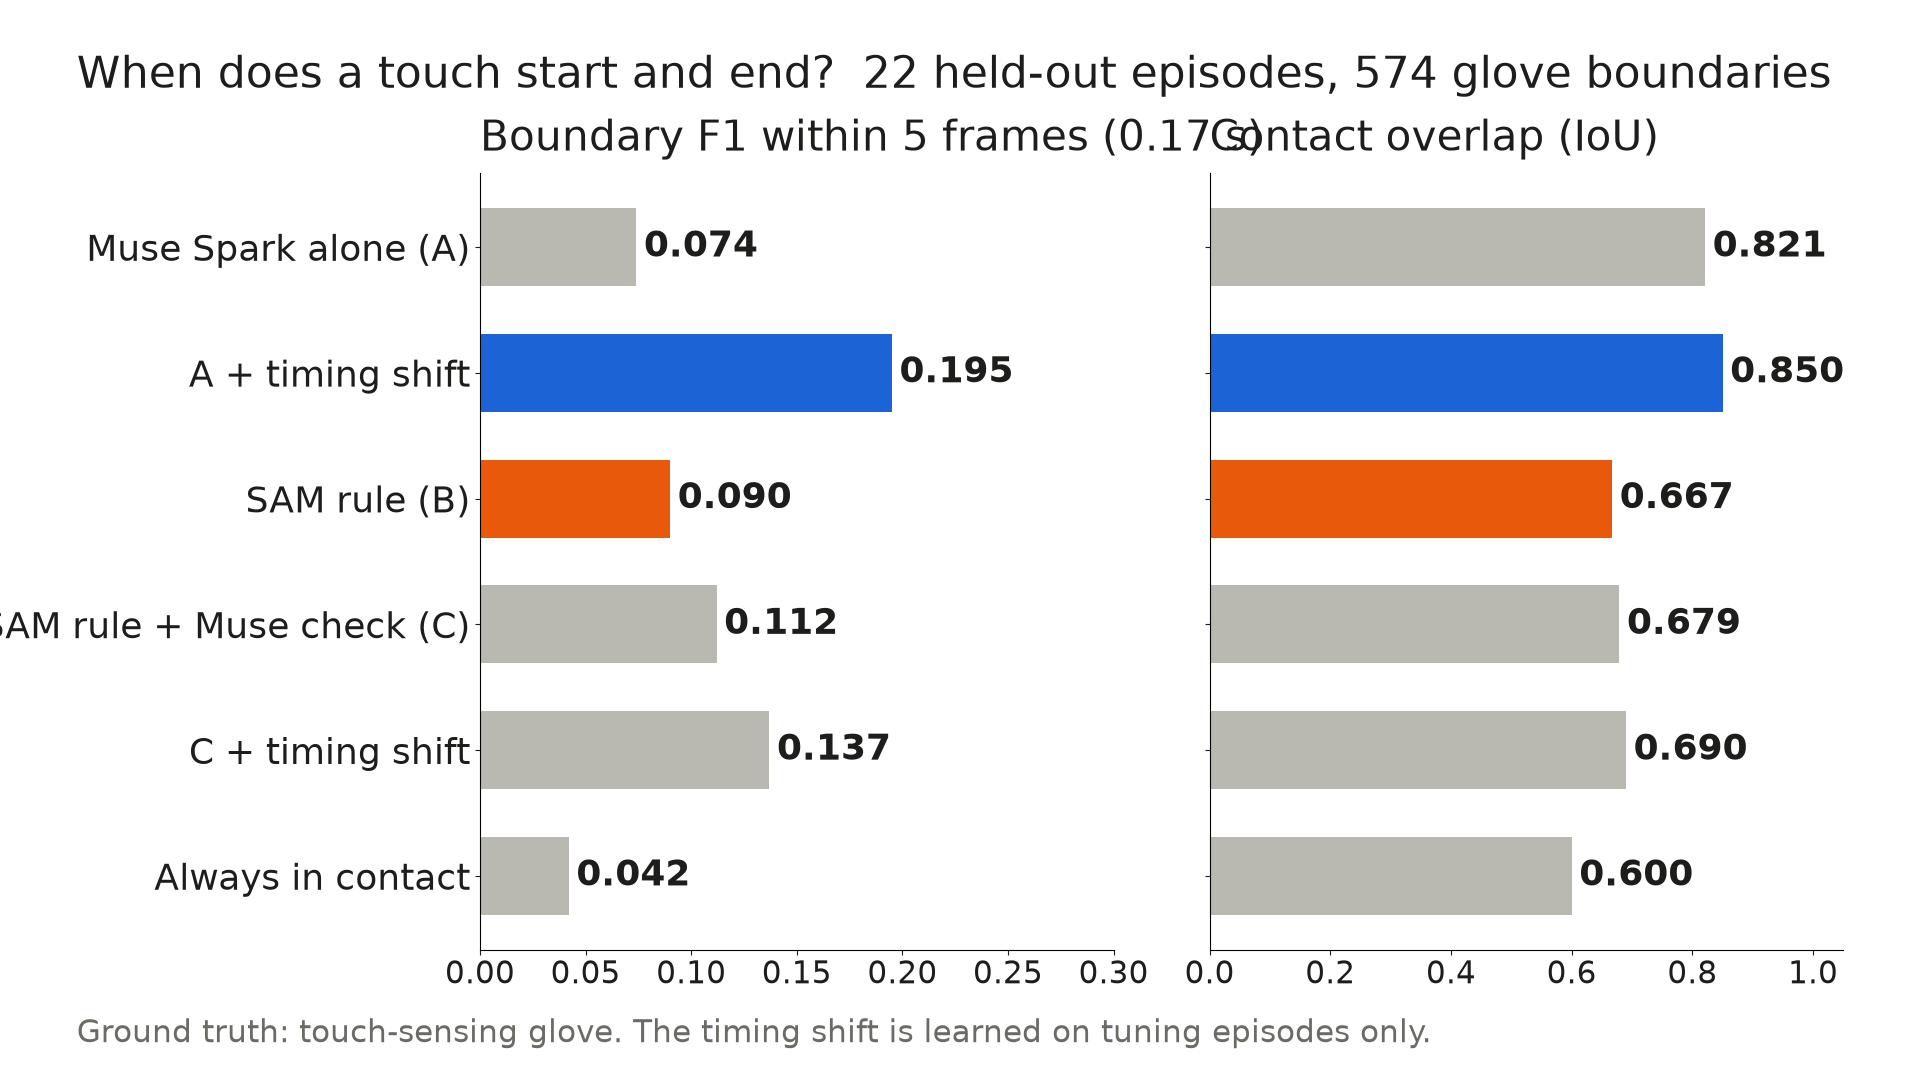
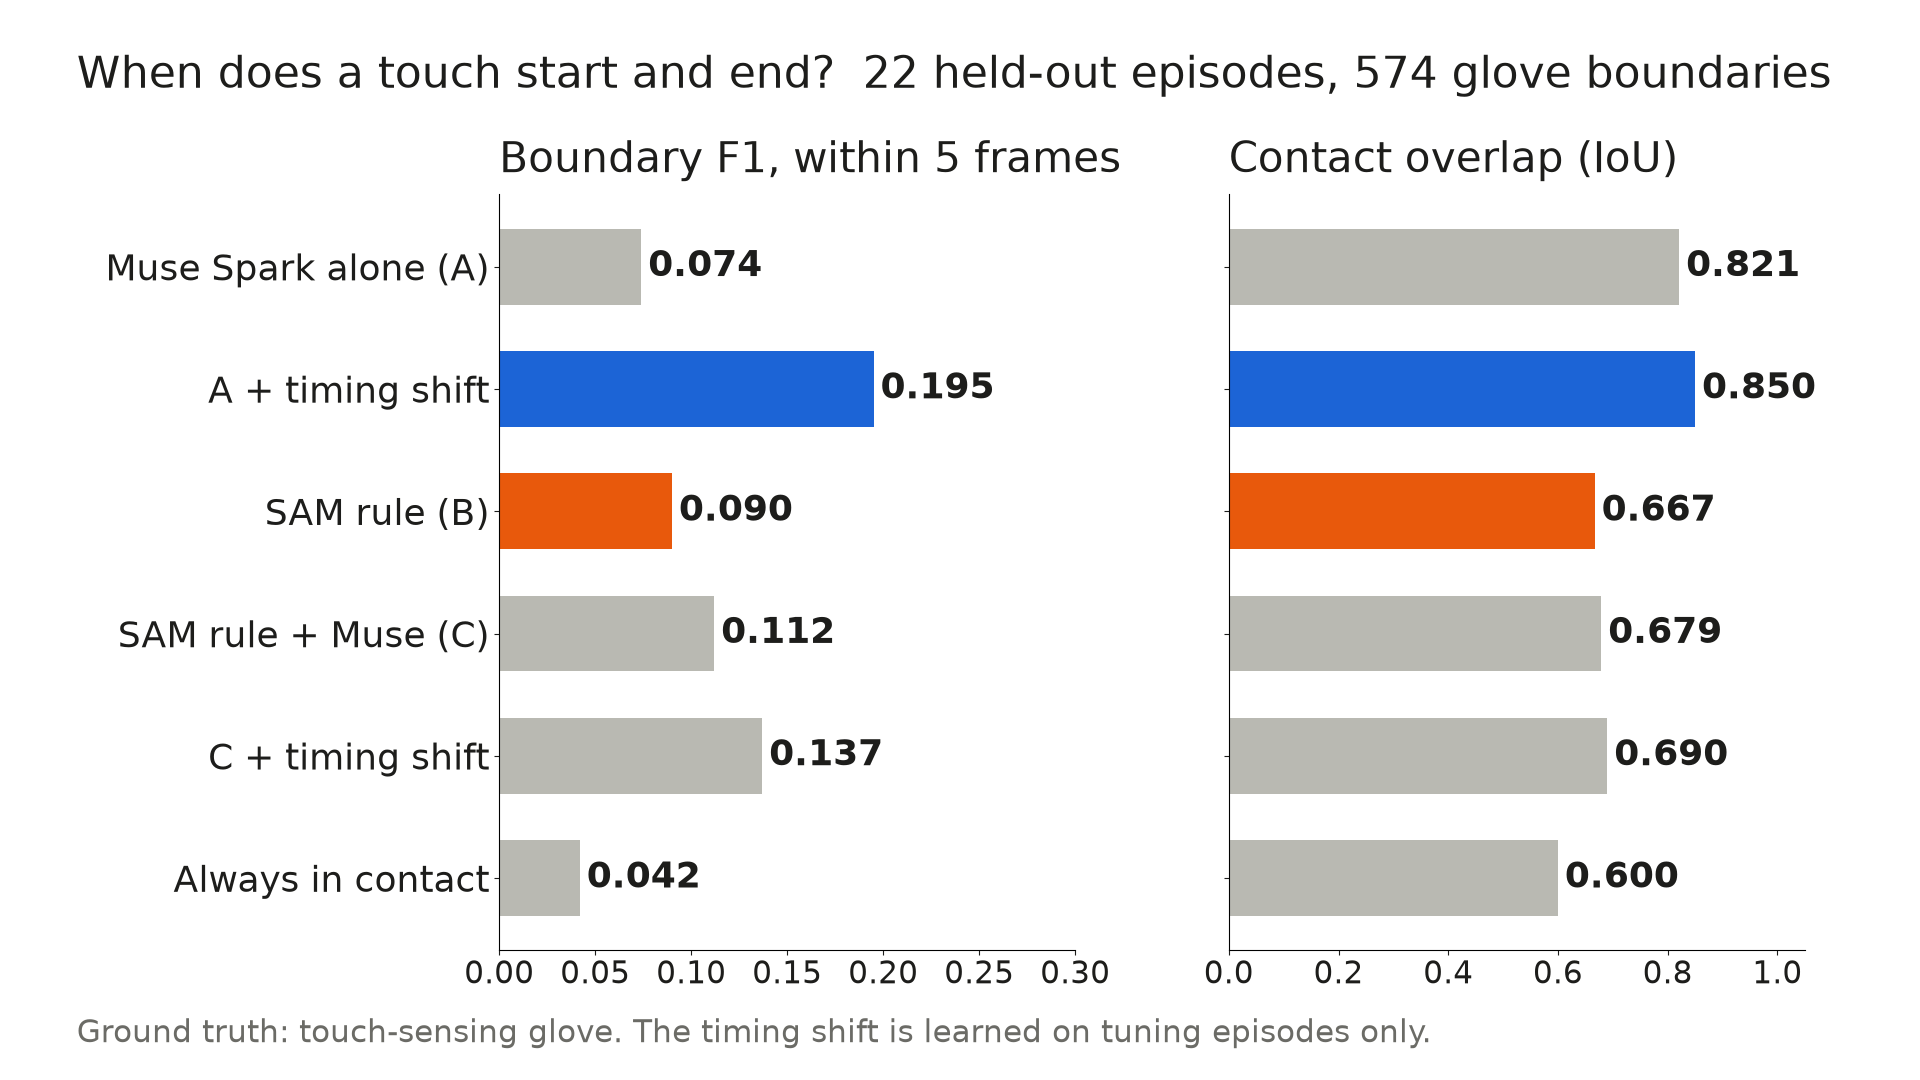
Redraw the demo video figures

diff --git a/scripts/demo_figures.py b/scripts/demo_figures.py
@@ -65,16 +65,16 @@ def hbars(ax, labels, values, colors, ci=None, fmt="{:.3f}", xmax=1.0):
 def number1():
     rows = load("out/number1/final/number1_final_report.json")["pooled"]["tactile_clean"]
     order = [("arm_A", "Muse Spark alone (A)"), ("arm_A_shift", "A + timing shift"),
-             ("arm_B", "SAM rule (B)"), ("arm_C", "SAM rule + Muse check (C)"),
+             ("arm_B", "SAM rule (B)"), ("arm_C", "SAM rule + Muse (C)"),
              ("arm_C_shift", "C + timing shift"), ("always_in_contact", "Always in contact")]
     colors = [HI if k == "arm_A_shift" else HI2 if k == "arm_B" else BASE for k, _ in order]
     fig = canvas()
     fig.suptitle("When does a touch start and end?  22 held-out episodes, 574 glove boundaries",
                  fontsize=32, x=0.04, ha="left", y=0.95)
-    ax1 = fig.add_axes([0.25, 0.12, 0.33, 0.72])
+    ax1 = fig.add_axes([0.26, 0.12, 0.30, 0.70])
     hbars(ax1, [l for _, l in order], [rows[k]["boundary_f1_5"] for k, _ in order], colors, xmax=0.3)
-    ax1.set_title("Boundary F1 within 5 frames (0.17 s)", loc="left", pad=16)
-    ax2 = fig.add_axes([0.63, 0.12, 0.33, 0.72])
+    ax1.set_title("Boundary F1, within 5 frames", loc="left", pad=16)
+    ax2 = fig.add_axes([0.64, 0.12, 0.30, 0.70])
     hbars(ax2, [""] * len(order), [rows[k]["contact_iou"] for k, _ in order], colors, xmax=1.05)
     ax2.set_title("Contact overlap (IoU)", loc="left", pad=16)
     fig.text(0.04, 0.035, "Ground truth: touch-sensing glove. The timing shift is learned on tuning episodes only.",
@@ -92,12 +92,12 @@ def number2():
         fig = canvas()
         fig.suptitle("Can a robot hand copy this grasp?  1,426 held-out clips from 3 people",
                      fontsize=32, x=0.04, ha="left", y=0.95)
-        ax = fig.add_axes([0.30, 0.14, 0.62, 0.70])
+        ax = fig.add_axes([0.36, 0.14, 0.58, 0.70])
         hbars(ax, [r[0] for r in rows], [r[1]["auc"] for r in rows],
               [hi.get(i, BASE) for i in range(len(rows))],
               ci=[tuple(r[1]["ci95_by_sequence"]) for r in rows], xmax=1.0)
         ax.axvline(0.5, color=MUTED, lw=2, ls="--")
-        ax.text(0.5, -0.75, "chance", color=MUTED, ha="center", fontsize=22)
+        ax.text(0.505, len(rows) - 0.45, "chance", color=MUTED, fontsize=22)
         ax.set_xlim(0.3, 0.9)
         ax.set_xlabel("AUC against the robot copy label (bars: 95% interval over sequences)", labelpad=14)
         save(fig, name)
@@ -113,11 +113,12 @@ def soft():
              ("Rigid objects held back\n(%s HOT3D clips)" % f"{held['clips']:,}", held["all"], 0.10, "at most 10%",
               held["all"] <= 0.10)]
     for i, (label, value, line, rule, ok) in enumerate(items):
-        ax = fig.add_axes([0.06 + 0.48 * i, 0.16, 0.40, 0.62])
+        ax = fig.add_axes([0.07 + 0.48 * i, 0.12, 0.40, 0.58])
         ax.bar([0], [value], width=0.5, color="#2b8a3e" if ok else "#c92a2a")
         ax.axhline(line, color=TEXT, lw=3, ls="--")
         ax.text(0.33, line + 0.02, "pass rule: " + rule, fontsize=24)
-        ax.text(0, value + 0.02, f"{100 * value:.1f}%", ha="center", fontsize=40, fontweight="bold")
+        ty = line + 0.03 if 0 < line - value < 0.12 else value + 0.02
+        ax.text(0, ty, f"{100 * value:.1f}%", ha="center", fontsize=40, fontweight="bold")
         ax.set_ylim(0, 1)
         ax.set_xlim(-0.6, 1.2)
         ax.set_xticks([])
